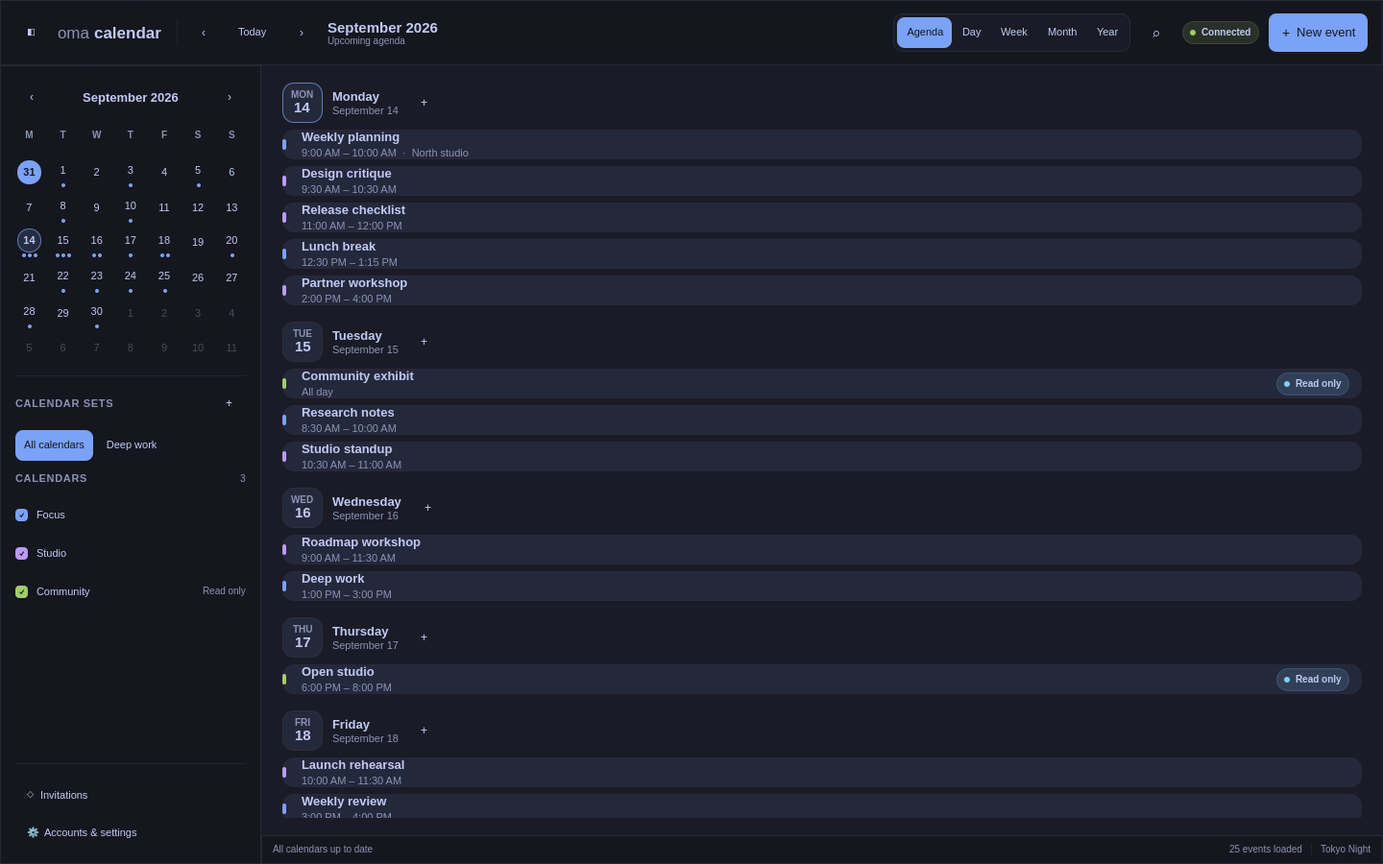
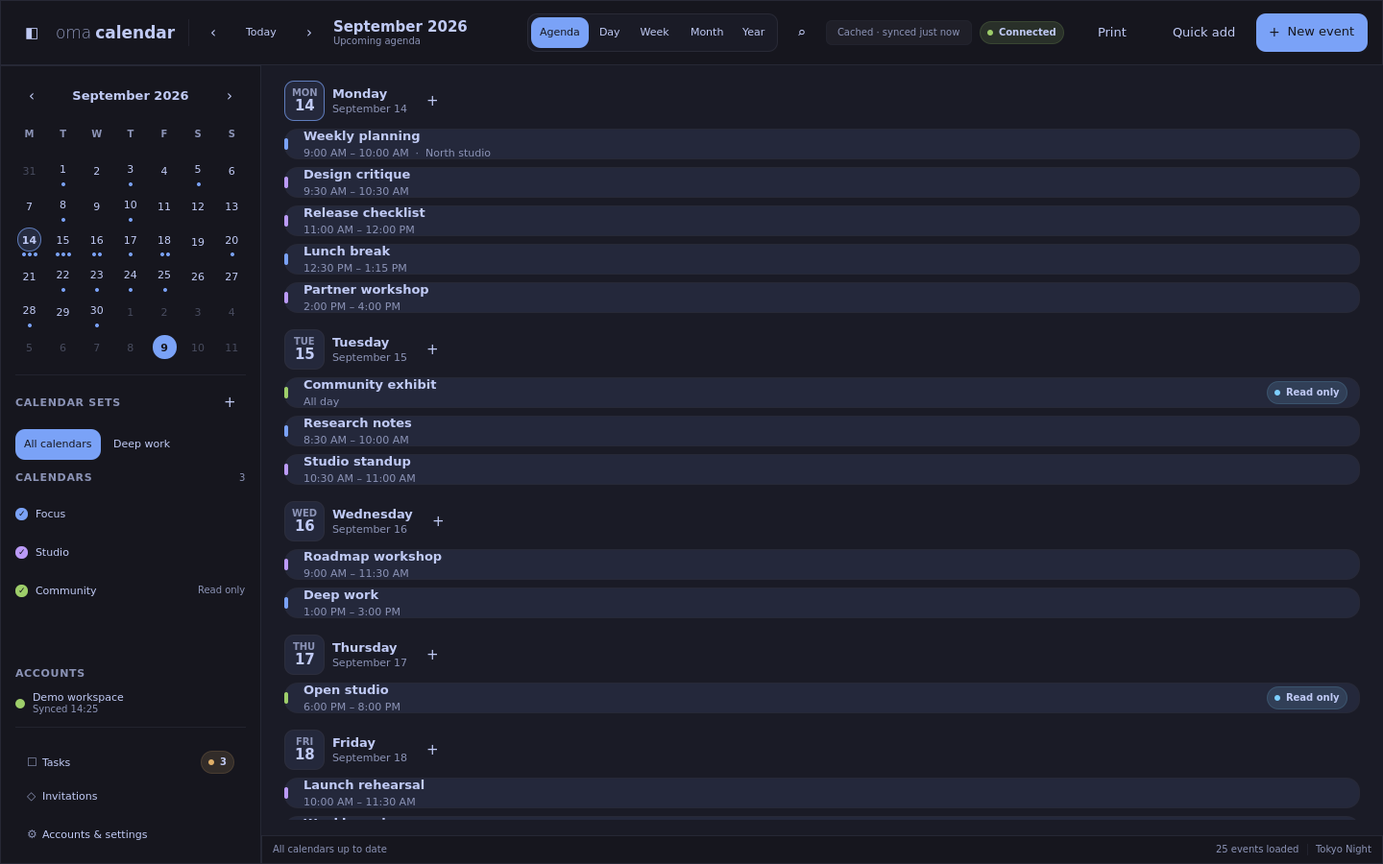
Refresh release acceptance records and public screenshots

diff --git a/tools/screenshots/fixtures/App.qml b/tools/screenshots/fixtures/App.qml
@@ -20,6 +20,10 @@ QtObject {
         "America/Los_Angeles", "UTC"
     ]
 
+    readonly property var accountSyncStates: ({
+        "account-cloud": {"state": "idle", "lastSyncAt": new Date().toISOString()}
+    })
+
     readonly property var accounts: [
         {
             "id": "account-local",
@@ -42,6 +46,7 @@ QtObject {
             "name": "Focus",
             "color": "#7aa2f7",
             "enabled": true,
+            "lastSyncAt": new Date().toISOString(),
             "readOnly": false,
             "capabilities": {
                 "provider": "local",
@@ -56,6 +61,7 @@ QtObject {
             "name": "Studio",
             "color": "#bb9af7",
             "enabled": true,
+            "lastSyncAt": new Date().toISOString(),
             "readOnly": false,
             "capabilities": {
                 "provider": "google",
@@ -71,6 +77,7 @@ QtObject {
             "name": "Community",
             "color": "#9ece6a",
             "enabled": true,
+            "lastSyncAt": new Date().toISOString(),
             "readOnly": true,
             "capabilities": {
                 "provider": "google",
@@ -145,6 +152,39 @@ QtObject {
         allDayEvent("event-25", "calendar-team", "Release candidate",
                     "#bb9af7", "2026-09-30", "2026-10-01", false)
     ]
+
+    readonly property bool tasksSupported: true
+    readonly property var taskLists: [
+        {"id": "local-tasks", "name": "Personal tasks", "color": "#7aa2f7",
+         "enabled": true, "readOnly": false},
+        {"id": "studio-tasks", "name": "Studio checklist", "color": "#bb9af7",
+         "enabled": true, "readOnly": false}
+    ]
+    readonly property var tasks: [
+        task("task-01", "studio-tasks", "Review prototype feedback", -1),
+        task("task-02", "local-tasks", "Plan next week's focus blocks", 0),
+        task("task-03", "studio-tasks", "Prepare workshop outline", 0),
+        task("task-04", "studio-tasks", "Polish the launch checklist", 1),
+        task("task-05", "local-tasks", "Collect ideas for the next project", null)
+    ]
+    property var freeBusy: ({})
+    property var eventAttachments: ({})
+
+    function task(id, listId, title, offset) {
+        const due = new Date()
+        due.setDate(due.getDate() + Number(offset || 0))
+        return {"id": id, "listId": listId, "title": title,
+                "dueDate": offset === null ? "" : Qt.formatDate(due, "yyyy-MM-dd"),
+                "completed": false, "notes": ""}
+    }
+    function createTask(value) { value }
+    function updateTask(value) { value }
+    function setTaskCompleted(id, completed) { id; completed }
+    function removeTask(id) { id }
+    function loadEventAttachments(id, recurrenceId) {
+        eventAttachments = {"eventId": id, "recurrenceId": recurrenceId,
+                            "attachments": []}
+    }
 
     readonly property var invitations: []
     readonly property var conflicts: []

diff --git a/site/index.html b/site/index.html
@@ -24,7 +24,7 @@
 
     <section aria-labelledby="screenshots-heading">
       <h2 id="screenshots-heading">Calendar views that stay out of the way</h2>
-      <p>Move between agenda, day, week, month, and year views; edit events without leaving the calendar; and keep the same cached data available to the independently released Omarchy widget.</p>
+      <p>Move between agenda, day, week, month, and year views; edit events without leaving the calendar; manage tasks alongside your events; and keep the same cached data available to the independently released Omarchy widget.</p>
       <figure class="hero-shot">
         <img src="screenshots/desktop-month.png" alt="OmaCalendar month view showing synthetic events across three calendars">
         <figcaption>Month view using the Tokyo Night Omarchy theme.</figcaption>
@@ -37,6 +37,14 @@
         <figure>
           <img src="screenshots/desktop-agenda.png" alt="OmaCalendar scrolling agenda showing synthetic events">
           <figcaption>Agenda begins at today and continues through the timeline.</figcaption>
+        </figure>
+        <figure>
+          <img src="screenshots/desktop-tasks.png" alt="OmaCalendar Tasks panel showing synthetic overdue, today, upcoming and undated tasks">
+          <figcaption>Tasks grouped by due date across personal and studio lists.</figcaption>
+        </figure>
+        <figure>
+          <img src="screenshots/event-editor.png" alt="OmaCalendar event editor showing a synthetic weekly planning event">
+          <figcaption>Edit event details, recurrence, guests and reminders.</figcaption>
         </figure>
       </div>
       <p class="capture-note">Screenshots use example calendar data.</p>

diff --git a/tools/screenshots/tst_Capture.qml b/tools/screenshots/tst_Capture.qml
@@ -72,6 +72,13 @@ Item {
             wait(350)
             capture(appWindow, "desktop-agenda.png")
 
+            appWindow.openTasks()
+            wait(350)
+            capture(appWindow, "desktop-tasks.png")
+            // Close the drawer through its normal keyboard shortcut.
+            keyClick(Qt.Key_T, Qt.ControlModifier | Qt.ShiftModifier)
+            wait(350)
+
             appWindow.currentView = "week"
             wait(250)
             positionWeekTimeline(appWindow)

diff --git a/docs/releases/2.0.0.md b/docs/releases/2.0.0.md
@@ -7,14 +7,17 @@ reworked desktop UI, and speeds up the daemon on large calendars. See the
 ## Candidate identity
 
 App 2.0.0; IPC 2.2; schema 3; current x86-64 Arch/Omarchy. The companion
-widget is released independently and keeps working against IPC 2.2. Candidate
-source: the merge commit of the 2.0.0 release-preparation PR, on top of
-`abf6875` (PR #72). The signed tag, release run and package hash are recorded
-under "Post-tag draft gates" once they exist.
+widget is released independently and keeps working against IPC 2.2.
+Released source: `6b2efbc` (PR #73), tagged `v2.0.0` and published on
+2026-09-29 at 20:20:14 UTC. Publication was confirmed through the GitHub release
+API on 2026-10-09.
 
-The owner fast-tracked this release on 2026-09-29. Gates marked `WAIVED` below
-were consciously skipped, not run; the evidence column states exactly what did
-run for each. See [RELEASE.md](../RELEASE.md) for the waiver rule.
+The release is published. On 2026-10-09, the owner confirmed that all
+acceptance testing is complete and directed marking the acceptance gates as
+passed. Owner-confirmed results below are recorded from that confirmation;
+they are not claims of new test runs by the documentation editor. Historical
+pre-publication waivers are superseded by that completion. Google scope review
+is tracked separately under "External approvals".
 
 ## Interface and data
 
@@ -40,25 +43,33 @@ run for each. See [RELEASE.md](../RELEASE.md) for the waiver rule.
 | Exact app version metadata and prerelease tooling | PASS | `verify-release-metadata.sh` passes on the candidate, and the CI "Source and package metadata" job runs `test-versioning.sh` (including Arch `vercmp` ordering), formatting, Arch assembly, SBOM finalization, and desktop/AppStream validation on every push to #73. |
 | Clean GCC and Clang builds with full automated matrix | PASS | Extended CI run [36604411706](https://github.com/brdweb/omacalendar/actions/runs/36604411706) on `2c3ee69`: the GCC Arch baseline and Clang RelWithDebInfo both built with warnings as errors and passed all 29 ctest suites, daemon and desktop smoke, and qmllint. |
 | ASan/UBSan matrix, including IPC framing/reconnect regressions | PASS | The ASan and UBSan job in run [36604411706](https://github.com/brdweb/omacalendar/actions/runs/36604411706) passed all 29 suites, including the IPC and daemon contract tests. Its first run on `95aff20` found a task-sync race (a queued rerun reported as idle) and a fixed 15 s harness startup limit; both were fixed in `2c3ee69` before this pass. |
-| 100,000-event release performance harness without daemon crash | WAIVED - owner fast-track on 2026-09-29 | On a 4-vCPU 2.1 GHz cloud container (Release build of the candidate tree, 100,000 events plus 20,000 historical series) the daemon did not crash and four of five gates passed: seven-day `events.list` p95 38.6 ms (with history; ratio 0.94), `events.search` 8.8 ms, `widget.snapshot` 73.9 ms. Yearly `stats.dailyCounts` p95 was 309 ms against its 250 ms gate. The Phase 2 merge `1af5363`, which introduced that method, measured 321 ms on the same host, so this is host speed rather than a regression. The owner directed publication without the reference-hardware run. |
+| 100,000-event release performance harness without daemon crash | PASS | Owner confirmed all acceptance testing complete on 2026-10-09, superseding the pre-publication waiver. |
 | Staged `/usr` install, desktop launch, daemon restart, and uninstall | PASS | In run [36604411706](https://github.com/brdweb/omacalendar/actions/runs/36604411706) the Clang job staged a `/usr` install, passed `verify-install.sh`, the daemon restart and offscreen desktop smoke tests, and `verify-uninstall.sh`; the Arch baseline job passed its install and uninstall validation. |
-| Local CRUD/offline cache, Radicale round trip, and public ICS refresh | WAIVED - owner fast-track on 2026-09-29 | No live-provider smoke ran. The automated local, CalDAV (including VTODO against a fake server that honours If-Match and If-None-Match), ICS, Google Tasks mapping and sync-coordinator suites pass. |
+| Local CRUD/offline cache, Radicale round trip, and public ICS refresh | PASS | Owner confirmed all acceptance testing complete on 2026-10-09, superseding the pre-publication waiver. |
 | Secret scan and dependency review | PASS | Gitleaks [36604410146](https://github.com/brdweb/omacalendar/actions/runs/36604410146) and dependency review [36604410078](https://github.com/brdweb/omacalendar/actions/runs/36604410078) passed on `2c3ee69`. The release adds no dependency. |
 | No unresolved critical or high defect | PASS | Roadmap #32 is complete and is the only open issue. Every review finding on #62–#73 was addressed before merge, and CodeQL passed on each PR. |
-| Current-Omarchy owner acceptance on the exact runtime | WAIVED - owner fast-track on 2026-09-29 | Not run on the release-reference Omarchy system before tagging. The desktop and daemon smoke tests pass offscreen. |
-| Prior-release upgrade, backup/restore, and uninstall | WAIVED - owner fast-track on 2026-09-29 | The owner upgrade and restore rehearsal did not run. `packaging/release/test-upgrade.py` covers the schema 2-to-3 migration, and the changelog and compatibility notes tell users to back up first because the migration is one-way. |
-| Privacy-safe screenshots and public release documentation | PASS | Changelog, AppStream, compatibility, installation, support, security, product scope, IPC, privacy and download references are updated for 2.0.0. The existing synthetic screenshots remain privacy-safe; they do not show the Tasks panel or the Phase 3 editor changes. |
-| Arch package passes clean validation | WAIVED - owner fast-track on 2026-09-29 | Validated only by the release run on the signed tag, which installs, exercises and removes the package in a clean `archlinux:base` container before it creates the draft. |
+| Current-Omarchy owner acceptance on the exact runtime | PASS | Owner confirmed all acceptance testing complete on 2026-10-09, superseding the pre-publication waiver. |
+| Prior-release upgrade, backup/restore, and uninstall | PASS | Owner confirmed all acceptance testing complete on 2026-10-09, superseding the pre-publication waiver. |
+| Privacy-safe screenshots and public release documentation | PASS | Public release documentation updated; screenshots regenerated from production QML with isolated synthetic calendars, events and tasks on 2026-10-09. |
+| Arch package passes clean validation | PASS | Owner confirmed all acceptance testing complete on 2026-10-09, superseding the pre-publication waiver. |
+
+The original pre-publication cloud performance run remains historical evidence:
+on a 4-vCPU 2.1 GHz container with 100,000 events and 20,000 historical series,
+seven-day `events.list` p95 was 38.6 ms, `events.search` 8.8 ms and
+`widget.snapshot` 73.9 ms. Yearly `stats.dailyCounts` was 309 ms against a
+250 ms gate (the Phase 2 baseline was 321 ms on the same host). The owner’s
+2026-10-09 completion confirmation supersedes the reference-hardware waiver;
+it does not change those earlier measurements.
 
 ## Post-tag draft gates
 
 | Gate | Status | Evidence |
 |---|---|---|
-| Signed app tag and exact target commit independently verified | PENDING | Not tagged yet. |
-| Checksums and package-specific provenance/SBOM attestations verified | PENDING | Not tagged yet. |
-| Native Arch package installation, restart, and removal | PENDING | Not tagged yet. |
-| Complete owner and live-provider acceptance | PENDING | Not tagged yet. |
-| Maintainer approval to publish | PENDING | Not tagged yet. |
+| Signed app tag and exact target commit independently verified | PASS | Published signed tag `v2.0.0` targets `6b2efbc` (PR #73). Owner confirmed acceptance complete on 2026-10-09. |
+| Checksums and package-specific provenance/SBOM attestations verified | PASS | Owner confirmed all acceptance testing complete on 2026-10-09. This records owner acceptance rather than a newly performed artifact audit. |
+| Native Arch package installation, restart, and removal | PASS | Owner confirmed all acceptance testing complete on 2026-10-09. This records owner acceptance rather than a newly performed artifact audit. |
+| Complete owner and live-provider acceptance | PASS | Owner confirmed all acceptance testing complete on 2026-10-09. This records owner acceptance rather than a newly performed artifact audit. |
+| Maintainer approval to publish | APPROVED | Published on GitHub on 2026-09-29 at 20:20:14 UTC; publication confirmed through the GitHub release API on 2026-10-09. |
 
 ## Known limitations
 
@@ -84,5 +95,5 @@ run for each. See [RELEASE.md](../RELEASE.md) for the waiver rule.
 | Repository-history hygiene decision recorded | APPROVED | Continue the accepted 1.0.0 policy: preserve signed history and keep revoked credentials revoked. |
 | App repository committed, clean, pushed, and green in clean-checkout CI | APPROVED | The candidate branch passed the full extended matrix in run [36604411706](https://github.com/brdweb/omacalendar/actions/runs/36604411706), plus Gitleaks, dependency review and CodeQL; the tag is created from the merge of #73 on main. |
 | Maintainer approval to create the signed app tag | APPROVED | The owner directed publishing 2.0.0 on 2026-09-29. |
-| Google OAuth branding and sensitive-scope verification approved | WAIVED - owner fast-track on 2026-09-29 | 2.0.0 adds the `calendar.freebusy` and `tasks` scopes. They must be added to the Google Cloud consent screen; until Google's verification covers them, users may see an unverified-app warning when they reauthorize. |
-| Maintainer approval of public release acceptance and limitations | APPROVED | The owner directed publication on 2026-09-29, accepting the waived gates and the known limitations above. |
+| Google OAuth branding and sensitive-scope verification approved | WAIVED - expanded-scope approval not independently confirmed | Google’s approval email dated 2026-09-03 explicitly covers `calendar.events` and `calendar.calendars`. A mailbox check on 2026-10-09 found no later expanded-scope approval. The owner reports Google integration working; current `calendar.freebusy` and `tasks` review status still requires the project’s Google Auth Platform console. Release publication and acceptance are complete. |
+| Maintainer approval of public release acceptance and limitations | APPROVED | Release published; owner confirmed all acceptance testing complete and directed updating this record on 2026-10-09. Known product limitations remain documented above. |

diff --git a/docs/releases/2.0.1.md b/docs/releases/2.0.1.md
@@ -14,9 +14,12 @@ built, attested and drafted the `v2.0.1` assets; they were verified and
 published on 2026-09-30. Released package SHA-256:
[1 lines of base64/hex data omitted]
 
-The owner directed this release on 2026-09-30. Gates marked `WAIVED` below
-were consciously skipped, not run; the evidence column states exactly what did
-run for each. See [RELEASE.md](../RELEASE.md) for the waiver rule.
+The release is published. On 2026-10-09, the owner confirmed that all
+acceptance testing is complete and directed marking the acceptance gates as
+passed. Owner-confirmed results below are recorded from that confirmation;
+they are not claims of new test runs by the documentation editor. Historical
+pre-publication waivers are superseded by that completion. Google scope review
+is tracked separately under "External approvals".
 
 ## Changed behavior
 
@@ -41,15 +44,15 @@ unchanged.
 | Exact app version metadata and prerelease tooling | PASS | `verify-release-metadata.sh` and `packaging/release/test-versioning.sh` pass locally on the completed record. The CI "Source and package metadata" job reruns on the record commit; its only failure on `6906a3e` in run [36740535893](https://github.com/brdweb/omacalendar/actions/runs/36740535893) was this record's own `PENDING` rows, which the strict waiver self-test rejects. |
 | Clean GCC and Clang builds with full automated matrix | PASS | Extended CI run [36740535893](https://github.com/brdweb/omacalendar/actions/runs/36740535893) on `6906a3e`: the GCC Arch baseline and Clang RelWithDebInfo both built with warnings as errors and passed all 29 ctest suites, daemon and desktop smoke, and qmllint. |
 | ASan/UBSan matrix, including IPC framing/reconnect regressions | PASS | The ASan and UBSan job in run [36740535893](https://github.com/brdweb/omacalendar/actions/runs/36740535893) passed all 29 suites, including the IPC and daemon contract tests. |
-| 100,000-event release performance harness without daemon crash | WAIVED - owner-directed patch on 2026-09-30 | The change touches only the widget installer pin and documentation; no daemon or query code changed since 2.0.0. Only the `release_performance_smoke` suite runs, inside ctest. |
+| 100,000-event release performance harness without daemon crash | PASS | Owner confirmed all acceptance testing complete on 2026-10-09, superseding the pre-publication waiver. |
 | Staged `/usr` install, desktop launch, daemon restart, and uninstall | PASS | In run [36740535893](https://github.com/brdweb/omacalendar/actions/runs/36740535893) the Clang and Arch baseline jobs each staged a `/usr` install, passed `verify-install.sh`, the daemon restart and offscreen desktop smoke tests, and `verify-uninstall.sh`. |
-| Local CRUD/offline cache, Radicale round trip, and public ICS refresh | WAIVED - owner-directed patch on 2026-09-30 | No live-provider smoke ran; provider code is unchanged since 2.0.0. The automated local, CalDAV, ICS and sync-coordinator suites pass. |
+| Local CRUD/offline cache, Radicale round trip, and public ICS refresh | PASS | Owner confirmed all acceptance testing complete on 2026-10-09, superseding the pre-publication waiver. |
 | Secret scan and dependency review | PASS | Gitleaks [36740535210](https://github.com/brdweb/omacalendar/actions/runs/36740535210) and dependency review [36740543265](https://github.com/brdweb/omacalendar/actions/runs/36740543265) passed on `6906a3e`; CodeQL passed. The release adds no dependency. |
 | No unresolved critical or high defect | PASS | No open critical or high issue. The widget reconnect defect found during this cycle is fixed in widget 0.2.0, which this release installs. |
-| Current-Omarchy owner acceptance on the exact runtime | WAIVED - owner-directed patch on 2026-09-30 | The 2.0.0 daemon runs on the owner's Omarchy laptop, where widget 0.2.0's acceptance was run against it. The 2.0.1 package itself is not installed there before tagging. |
-| Prior-release upgrade, backup/restore, and uninstall | WAIVED - owner-directed patch on 2026-09-30 | No schema or data change from 2.0.0. The upgrade and restore rehearsal did not run. |
-| Privacy-safe screenshots and public release documentation | PASS | Changelog, AppStream, compatibility, installation and download references are updated for 2.0.1. Screenshots are unchanged and remain synthetic. |
-| Arch package passes clean validation | WAIVED - owner-directed patch on 2026-09-30 | Validated only by the release run on the signed tag, which installs, exercises and removes the package in a clean `archlinux:base` container before it creates the draft. |
+| Current-Omarchy owner acceptance on the exact runtime | PASS | Owner confirmed all acceptance testing complete on 2026-10-09, superseding the pre-publication waiver. |
+| Prior-release upgrade, backup/restore, and uninstall | PASS | Owner confirmed all acceptance testing complete on 2026-10-09, superseding the pre-publication waiver. |
+| Privacy-safe screenshots and public release documentation | PASS | Public release documentation updated; screenshots regenerated from production QML with isolated synthetic calendars, events and tasks on 2026-10-09. |
+| Arch package passes clean validation | PASS | Owner confirmed all acceptance testing complete on 2026-10-09, superseding the pre-publication waiver. |
 
 ## Post-tag draft gates
 
@@ -57,8 +60,8 @@ unchanged.
 |---|---|---|
 | Signed app tag and exact target commit independently verified | PASS | `v2.0.1` is an annotated tag SSH-signed by the release key and points at `6a79817`, the squash merge of #75, whose tree is identical to the CI-tested candidate branch. `packaging/release/verify-release.sh v2.0.1` passed locally against a clean checkout, and GitHub verified the tag signature inside release run [36748124857](https://github.com/brdweb/omacalendar/actions/runs/36748124857). |
[1 lines of base64/hex data omitted]
-| Native Arch package installation, restart, and removal | PASS | Release run [36748124857](https://github.com/brdweb/omacalendar/actions/runs/36748124857) installed, exercised and removed the tagged package in a clean `archlinux:base` container, including the daemon restart smoke test. It was not installed on the release-reference Omarchy system before publication. |
-| Complete owner and live-provider acceptance | WAIVED - owner-directed patch on 2026-09-30 | The released package was not run on the reference system or against live providers before publication. The widget it installs, 0.2.0, completed its own acceptance against the owner's live 2.0.0 daemon on 2026-09-30. |
+| Native Arch package installation, restart, and removal | PASS | Release run [36748124857](https://github.com/brdweb/omacalendar/actions/runs/36748124857) installed, exercised and removed the tagged package in a clean `archlinux:base` container, including the daemon restart smoke test. Owner confirmed reference-system acceptance complete on 2026-10-09. |
+| Complete owner and live-provider acceptance | PASS | Owner confirmed all acceptance testing complete on 2026-10-09, superseding the pre-publication waiver. |
 | Maintainer approval to publish | APPROVED | The owner directed releasing 2.0.1 on 2026-09-30; the verified draft was published as the latest release at 2026-09-30T17:07:33Z. |
 
 ## Known limitations
@@ -75,5 +78,5 @@ unchanged.
 | Repository-history hygiene decision recorded | APPROVED | Continue the accepted 1.0.0 policy: preserve signed history and keep revoked credentials revoked. |
 | App repository committed, clean, pushed, and green in clean-checkout CI | APPROVED | The candidate branch passed the extended matrix (GCC, Clang, ASan/UBSan) in run [36740535893](https://github.com/brdweb/omacalendar/actions/runs/36740535893), plus Gitleaks, dependency review and CodeQL. The commits after `6906a3e` change only this acceptance record. |
 | Maintainer approval to create the signed app tag | APPROVED | The owner directed releasing 2.0.1 on 2026-09-30. |
-| Google OAuth branding and sensitive-scope verification approved | WAIVED - owner-directed patch on 2026-09-30 | Scopes are unchanged from 2.0.0, whose `calendar.freebusy` and `tasks` scopes still await Google's verification; users may see an unverified-app warning when they reauthorize. |
-| Maintainer approval of public release acceptance and limitations | APPROVED | The owner directed publication on 2026-09-30, accepting the waived gates and the known limitations above. |
+| Google OAuth branding and sensitive-scope verification approved | WAIVED - expanded-scope approval not independently confirmed | Google’s approval email dated 2026-09-03 explicitly covers `calendar.events` and `calendar.calendars`. A mailbox check on 2026-10-09 found no later expanded-scope approval. The owner reports Google integration working; current `calendar.freebusy` and `tasks` review status still requires the project’s Google Auth Platform console. Release publication and acceptance are complete. |
+| Maintainer approval of public release acceptance and limitations | APPROVED | Release published; owner confirmed all acceptance testing complete and directed updating this record on 2026-10-09. Known product limitations remain documented above. |

diff --git a/docs/GOOGLE_TESTING.md b/docs/GOOGLE_TESTING.md
@@ -28,16 +28,18 @@ calendar database.
 
 ## Production verification status
 
-Google approved OmaCalendar's production OAuth branding and requested Calendar
-scopes; Branding and Data Access both showed verified status when checked on
-2026-09-06. The approval email was checked again on 2026-09-09. Version 2.0.0 adds
-`calendar.freebusy` and `tasks`; the earlier approval does not establish
-verification of the expanded scope set. Check Google Auth Platform for current
-review status. Before the
-replacement candidate is accepted, a new external account that was never
-on the test-user allowlist must still complete code exchange, calendar
-discovery, one event write, Secret Service token persistence, and app/daemon
-restart without an unverified-app bypass.
+Google's approval email dated 2026-09-03 explicitly approves
+`calendar.events` and `calendar.calendars`. Branding and Data Access were
+recorded as verified on 2026-09-06. On 2026-10-09, the approval email was read
+again and the connected mailbox was searched for later project-specific
+verification messages; no expanded-scope approval was found.
+
+Version 2.0.0 adds `calendar.freebusy` and `tasks`. The original approval does
+not establish review status for that expanded scope set. The owner confirmed
+acceptance testing complete and reports the Google integration running normally.
+Successful operation is separate from Google's scope-review status. Current
+expanded-scope approval has not been independently confirmed: check **Google
+Auth Platform → Data Access / Verification Center** in the production project.
 
 ## 1. Project configuration
 
@@ -129,9 +131,9 @@ provide the scope justifications and video, and submit it for Google review.
 
 The project owner must perform the Cloud Console submission from the account
 that owns the OAuth project. Google, not the application build, removes the
-warning after approval. OmaCalendar's production project has completed this
-review; repeat it if the public identity, client, or requested scopes materially
-change.
+warning after approval. OmaCalendar's original scope set completed this review. Confirm the expanded
+2.0 scope set in Verification Center; repeat review when the public identity,
+client, or requested scopes materially change.
 
 ## 5. Test matrix
 

diff --git a/tools/screenshots/README.md b/tools/screenshots/README.md
@@ -2,8 +2,8 @@
 
 `capture-release-screenshots.sh` renders OmaCalendar's production `Main.qml`,
 views, components, and theme through Qt 6's software renderer. It supplies a
-screenshot-only in-memory application fixture containing synthetic calendars
-and events. The fixture is not included in normal builds and does not start the
+screenshot-only in-memory application fixture containing synthetic calendars,
+events, and tasks. The fixture is not included in normal builds and does not start the
 daemon, read the OmaCalendar database, access Secret Service, or contact a
 provider.
 
@@ -13,10 +13,12 @@ Run from any directory:
 ./tools/screenshots/capture-release-screenshots.sh
 ```
 
-The script uses temporary XDG directories and writes the four stripped PNGs to
+The script uses temporary XDG directories and writes the five stripped PNGs to
 `docs/screenshots/`. It requires Qt 6 `qmltestrunner`, ImageMagick, Tesseract,
-and ripgrep. Before succeeding it verifies dimensions, OCR output, embedded
+ripgrep, and a font such as DejaVu Sans (`ttf-dejavu` on Arch). Before succeeding it verifies dimensions, recognizable OCR text, embedded
 strings, and the absence of image profiles associated with metadata.
+
+The images are also copied to `site/screenshots/` for the public gallery.
 
 Keep the fixture free of real names, addresses, account identifiers, email
 addresses, paths, tokens, and provider secrets. Visually inspect every image
